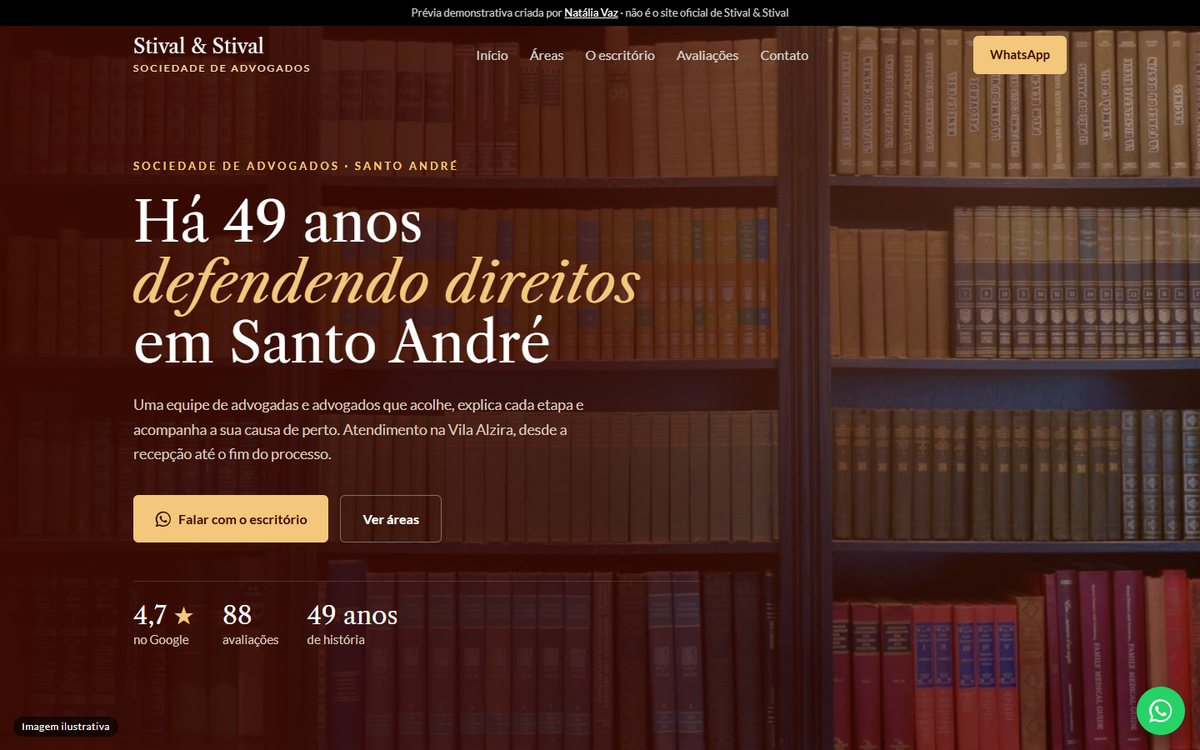
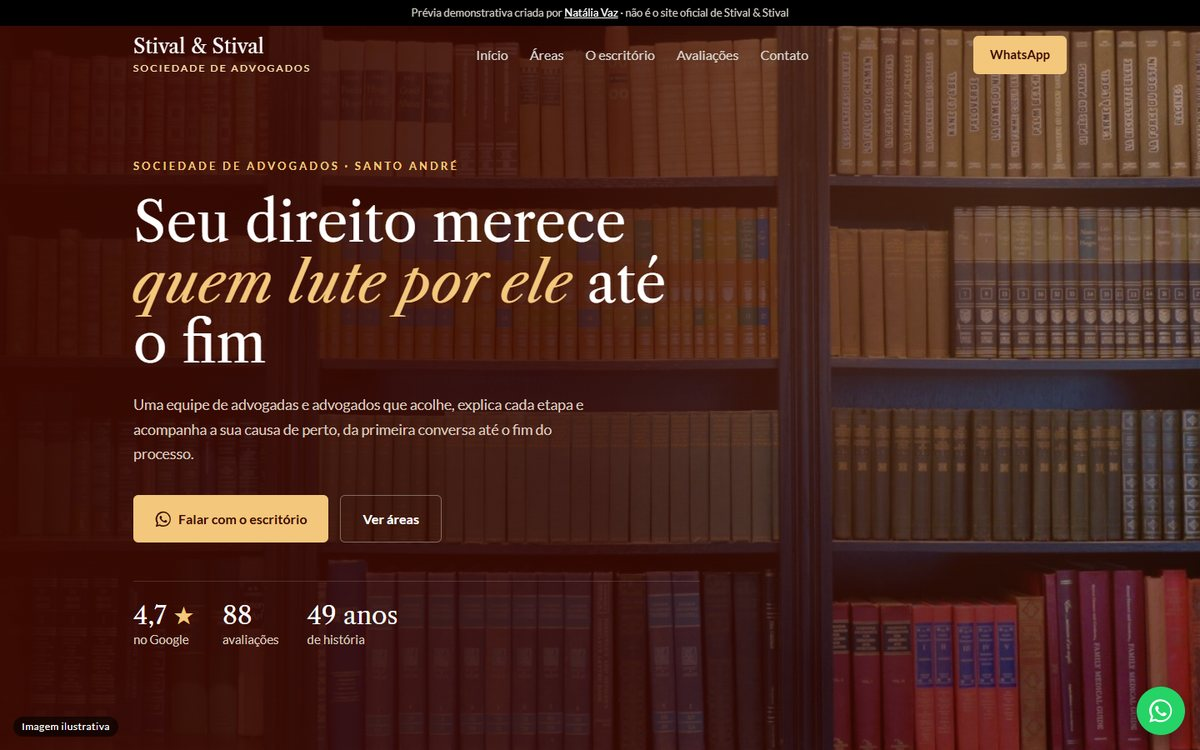
Stival & Stival: nova frase do hero

Changed region(s): [[0.0925, 0.2453, 0.555, 0.4907], [0.2775, 0.552, 0.4625, 0.5827], [0.1233, 0.5827, 0.2775, 0.6133]]

diff --git a/stival-stival/index.html b/stival-stival/index.html
@@ -316,8 +316,8 @@ html{--gap-secao:clamp(64px,8vw,96px)}
   <div class="wrap">
     <div class="hero-text reveal">
       <span class="kicker">Sociedade de advogados · Santo André</span>
-      <h1>Há 49 anos <i>defendendo direitos</i> em Santo André</h1>
-      <p>Uma equipe de advogadas e advogados que acolhe, explica cada etapa e acompanha a sua causa de perto. Atendimento na Vila Alzira, desde a recepção até o fim do processo.</p>
+      <h1>Seu direito merece <i>quem lute por ele</i> até o fim</h1>
+      <p>Uma equipe de advogadas e advogados que acolhe, explica cada etapa e acompanha a sua causa de perto, da primeira conversa até o fim do processo.</p>
       <div class="ctas">
         <a class="btn" href="https://wa.me/5511917101495?text=Ol%C3%A1%21%20Vi%20o%20site%20da%20Stival%20%26%20Stival%20e%20gostaria%20de%20uma%20orienta%C3%A7%C3%A3o%20sobre%20o%20meu%20caso." target="_blank" rel="noopener"><svg class="ic" aria-hidden="true"><use href="#i-whatsapp"/></svg>Falar com o escritório</a>
         <a class="btn ghost" href="#servicos">Ver áreas</a>
